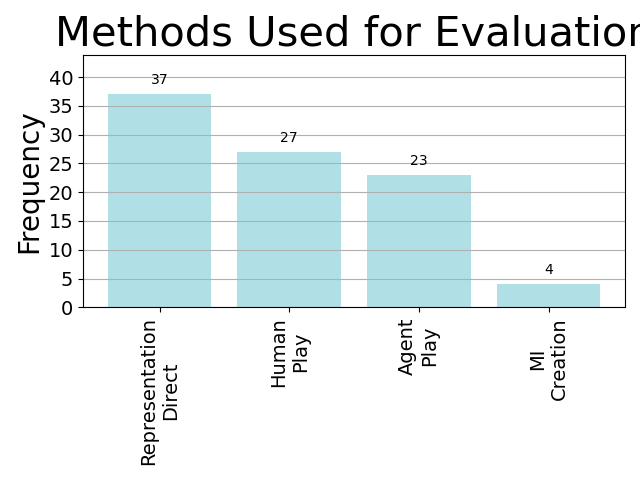
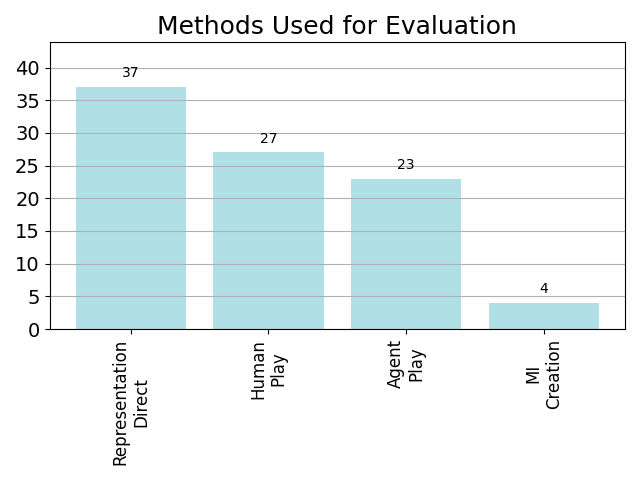
Updated Data

Changed region(s): [[0.0312, 0.0312, 1.0, 0.9688], [0.4062, 0.25, 0.4688, 0.3125]]

diff --git a/main_PCGEval.py b/main_PCGEval.py
@@ -13,9 +13,9 @@ def generate_histogram(columns, counts, title, filename, horizontal = True, colo
     fig, ax = plt.subplots()
 
     #Plotting normal vertical bars
-    if(horizontal):
+    if(not horizontal):
         ax.bar(columns, counts, color = colour)
-        ax.set_ylabel('Frequency', fontsize=20)
+        #ax.set_ylabel('Frequency', fontsize=20)
         plt.grid(axis='y')
         for rect in ax.patches:
             height = rect.get_height()
@@ -24,6 +24,7 @@ def generate_histogram(columns, counts, title, filename, horizontal = True, colo
         bottom, top = plt.ylim()
         plt.ylim(bottom, top+5) 
         plt.yticks(fontsize=14)
+        plt.xticks(fontsize=12, rotation='vertical')
     #Plotting horizontal bars
     else:
         """
@@ -37,7 +38,7 @@ def generate_histogram(columns, counts, title, filename, horizontal = True, colo
 
         ax.barh( columns, counts, color = colour)
         ax.invert_yaxis()
-        ax.set_xlabel('Frequency', fontsize=20)
+        #ax.set_xlabel('Frequency', fontsize=20)
         plt.grid(axis='x')
 
 
@@ -47,11 +48,11 @@ def generate_histogram(columns, counts, title, filename, horizontal = True, colo
                         xytext=(0, 5), textcoords='offset points', ha='center', va='bottom')
         min, max = plt.xlim()
         plt.xlim(min, max+5) 
-        plt.yticks(fontsize=10)
+        plt.yticks(fontsize=8)
+        plt.xticks(fontsize=6, rotation='vertical')
 
         
-    plt.xticks(fontsize=14, rotation='vertical')
-    ax.set_title(title, fontsize=30)
+    ax.set_title(title, fontsize=18)
 
     plt.tight_layout()
     #plt.show()
@@ -74,26 +75,26 @@ def main():
     methods_only = filtered_df[['M1', 'M2', 'M3', 'M4']]
     methods = ['Representation\nDirect', 'Human\nPlay', 'Agent\nPlay', 'MI\nCreation']
     method_counts = [methods_only['M1'].value_counts()['Yes'], methods_only['M2'].value_counts()['Yes'], methods_only['M3'].value_counts()['Yes'], methods_only['M4'].value_counts()['Yes']]
-    generate_histogram(methods, method_counts, "Methods Used for Evaluation", "EvalMethods", True, "powderblue")
+    generate_histogram(methods, method_counts, "Methods Used for Evaluation", "EvalMethods", False, "powderblue")
 
     
     point_of_comparison = filtered_df[['C1', 'C2', 'C3', 'C4', 'C5', 'C6']]
-    poc = ['With Algorithm\nvs Without', 'Alt\nParameters', 'Alt\nAlgorithms',  'System from\nPrior Research', 'Multiple\nGenerators Contrasted', 'Exemplar\nContent' ]
+    poc = ['With Algorithm\nvs Without', 'Alt\nParameters', 'Alt\nAlgorithms',  'System from\nPrior Research', 'Multiple\nGenerators', 'Exemplar\nContent' ]
     poc_counts = [point_of_comparison['C1'].value_counts()['Yes'], point_of_comparison['C2'].value_counts()['Yes'], 
                   point_of_comparison['C3'].value_counts()['Yes'], point_of_comparison['C4'].value_counts()['Yes'], point_of_comparison['C5'].value_counts()['Yes'], point_of_comparison['C6'].value_counts()['Yes']]
-    generate_histogram(poc, poc_counts, "Points of Comparison", 'CompPoints', True, "orange")
+    generate_histogram(poc, poc_counts, "Points of Comparison", 'CompPoints', False, "orange")
     
 
     features_only = filtered_df[['CM1','CM2','CM3','CM4','CM5','CM6','CM7','CM8','CM9','CM10','CM11','CM12']]
-    features = ['Fitness', 'Playability/\nWin Rate', 'Validated\nQuestionnaire', 'Custom\nQuestions', 'Biological\nReadings' , 'Computational Performance\nof Generator', 'Qualatative\nVisual Traits\nof a Sample', 	
-                'Metric\nDiversity', 'Similarity to\ntraining levels',  'ERA'	,'Controllability', 'Performance\nas RL Curiculum']
+    features = ['Fitness', 'Playability/\nWin Rate', 'Validated\nQuestionnaire', 'Custom\nQuestions', 'Biological\nReadings' , 'Computational Performance', 'Visual Traits\nof Sample', 	
+                'Metric\nDiversity', 'Training levels\nSimilarity',  'ERA'	,'Controllability', 'RL Curiculum\nPerformance']
     features_counts = [features_only['CM1'].value_counts()['Yes'],features_only['CM2'].value_counts()['Yes'],features_only['CM3'].value_counts()['Yes'],features_only['CM4'].value_counts()['Yes'],features_only['CM5'].value_counts()['Yes'],features_only['CM6'].value_counts()['Yes'],features_only['CM7'].value_counts()['Yes'],features_only['CM8'].value_counts()['Yes'],features_only['CM9'].value_counts()['Yes'],features_only['CM10'].value_counts()['Yes'],features_only['CM11'].value_counts()['Yes'],features_only['CM12'].value_counts()['Yes']]
-    generate_histogram(features, features_counts, "Features Used for Comparison", 'Features', False, "lightcoral")
+    generate_histogram(features, features_counts, "Features Used for Comparison", 'Features', True, "lightcoral")
 
-    domain_type_only = filtered_df[['DO1', 'DO2', 'DO3']]
-    domain_types = ['Commercial Game\nor Mod', 'Pre-Existing\nResearch Platform', 'Original\nSystem']
-    domain_counts = [domain_type_only['DO1'].value_counts()['Yes'],domain_type_only['DO3'].value_counts()['Yes'],domain_type_only['DO2'].value_counts()['Yes']]
-    generate_histogram(domain_types, domain_counts, "Domain Types Observed", 'DomainTypes', True, "pink")
+    domain_type_only = filtered_df[['DO1', 'DO2', 'DO3', 'GD1','GD2']]
+    domain_types = ['Commercial Game\nor Mod', 'Pre-Existing\nResearch Platform', 'Original\nSystem', 'Mario AI\nFramework','GVGAI']
+    domain_counts = [domain_type_only['DO1'].value_counts()['Yes'],domain_type_only['DO3'].value_counts()['Yes'],domain_type_only['DO2'].value_counts()['Yes'],domain_type_only['GD1'].value_counts()['Yes'],domain_type_only['GD2'].value_counts()['Yes']]
+    generate_histogram(domain_types, domain_counts, "Domain Types Observed", 'DomainTypes', False, "pink")
     
 
 
